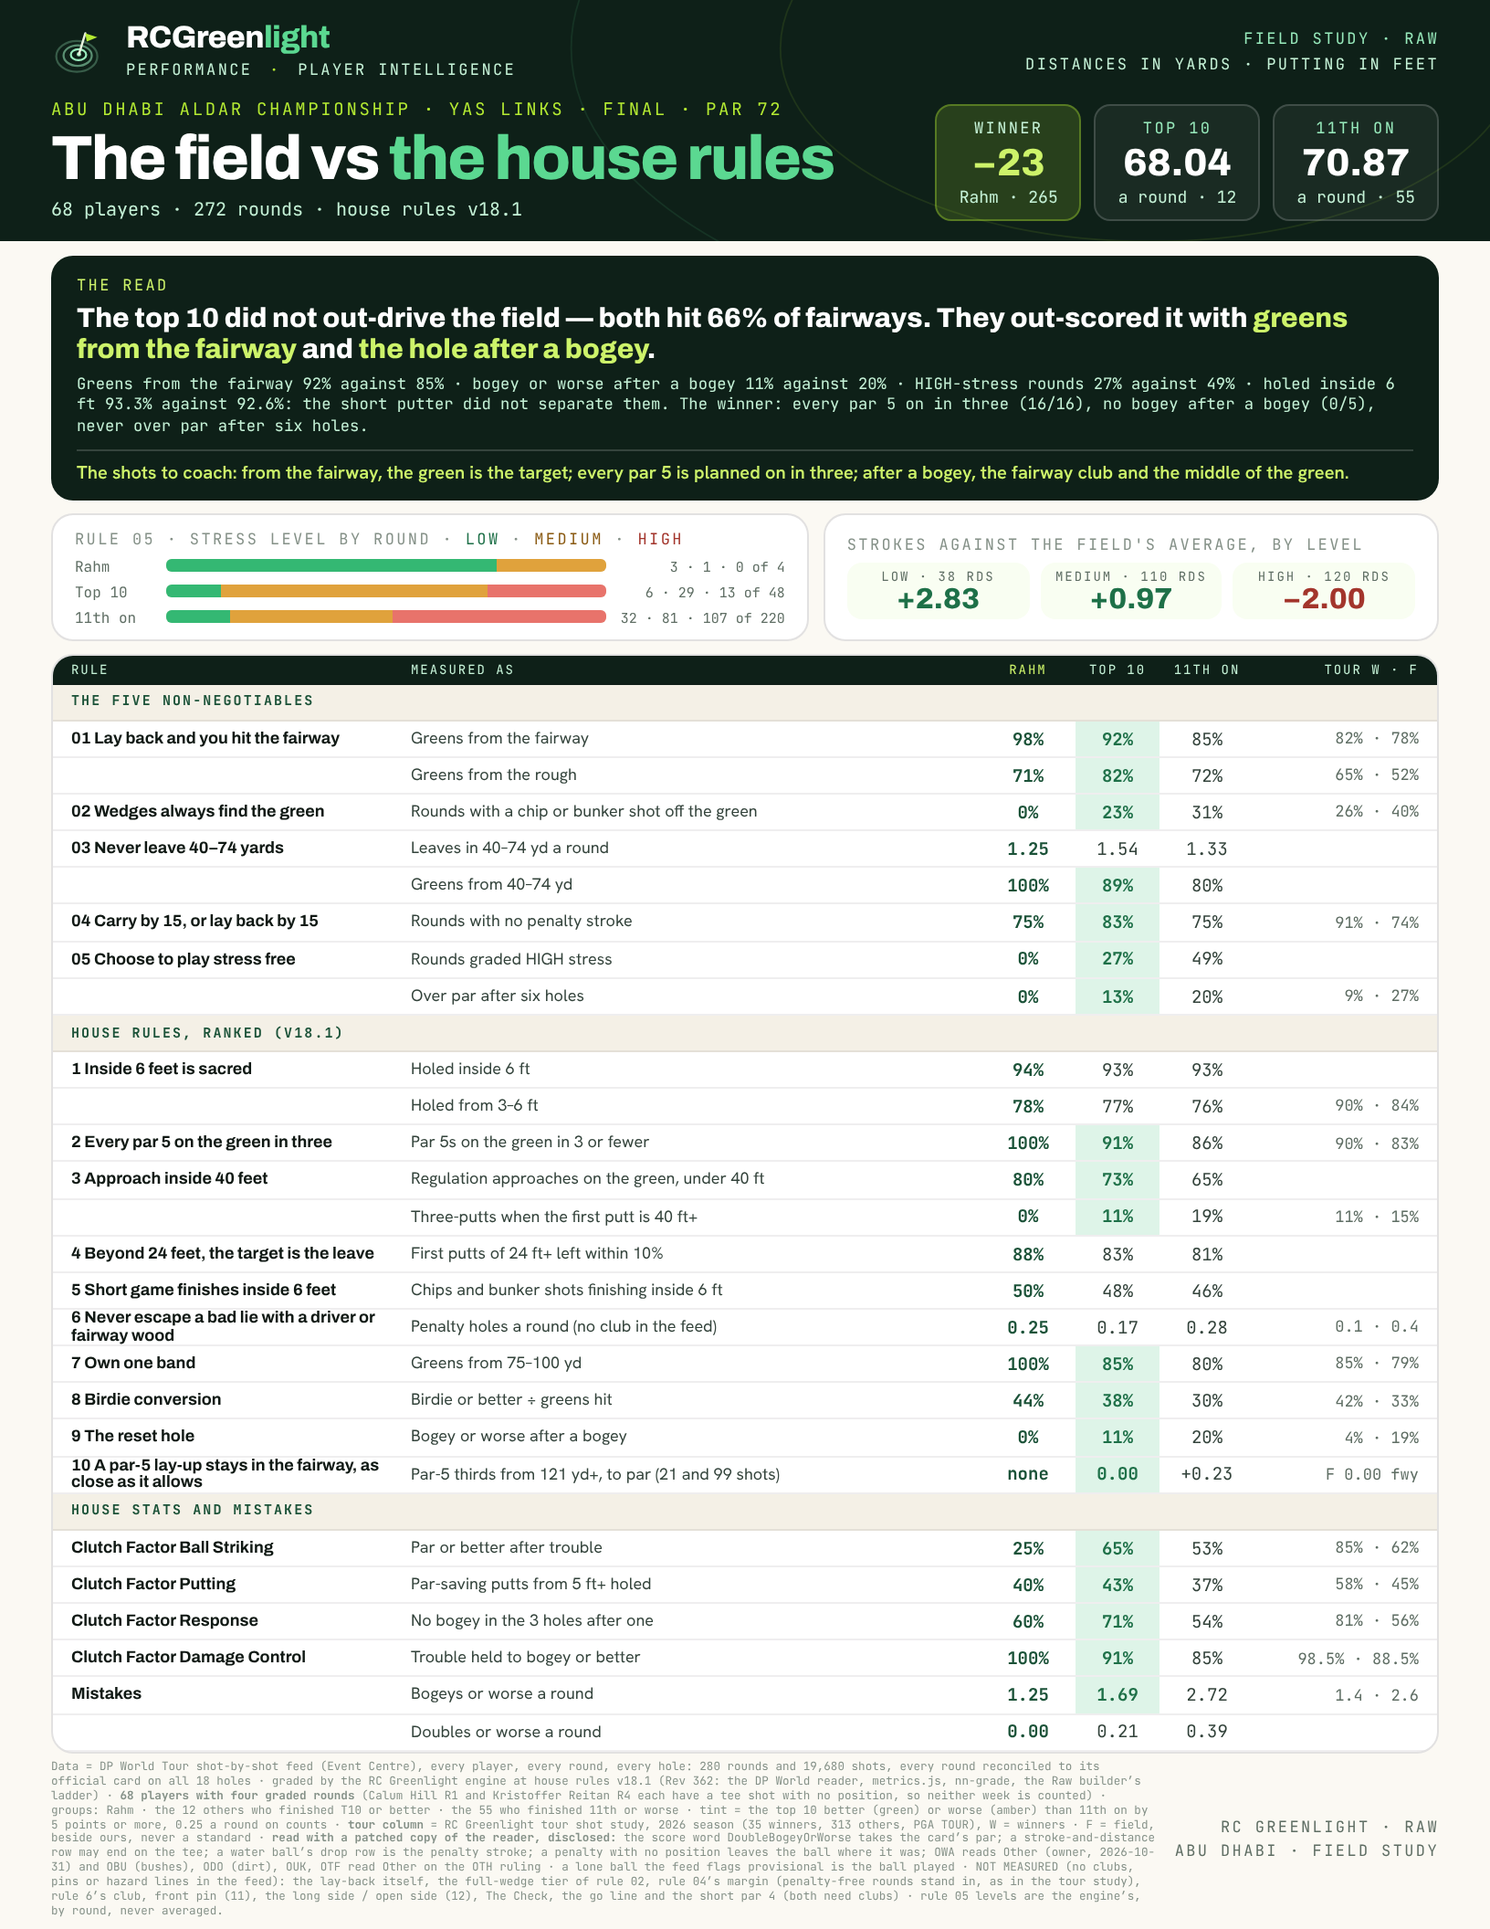
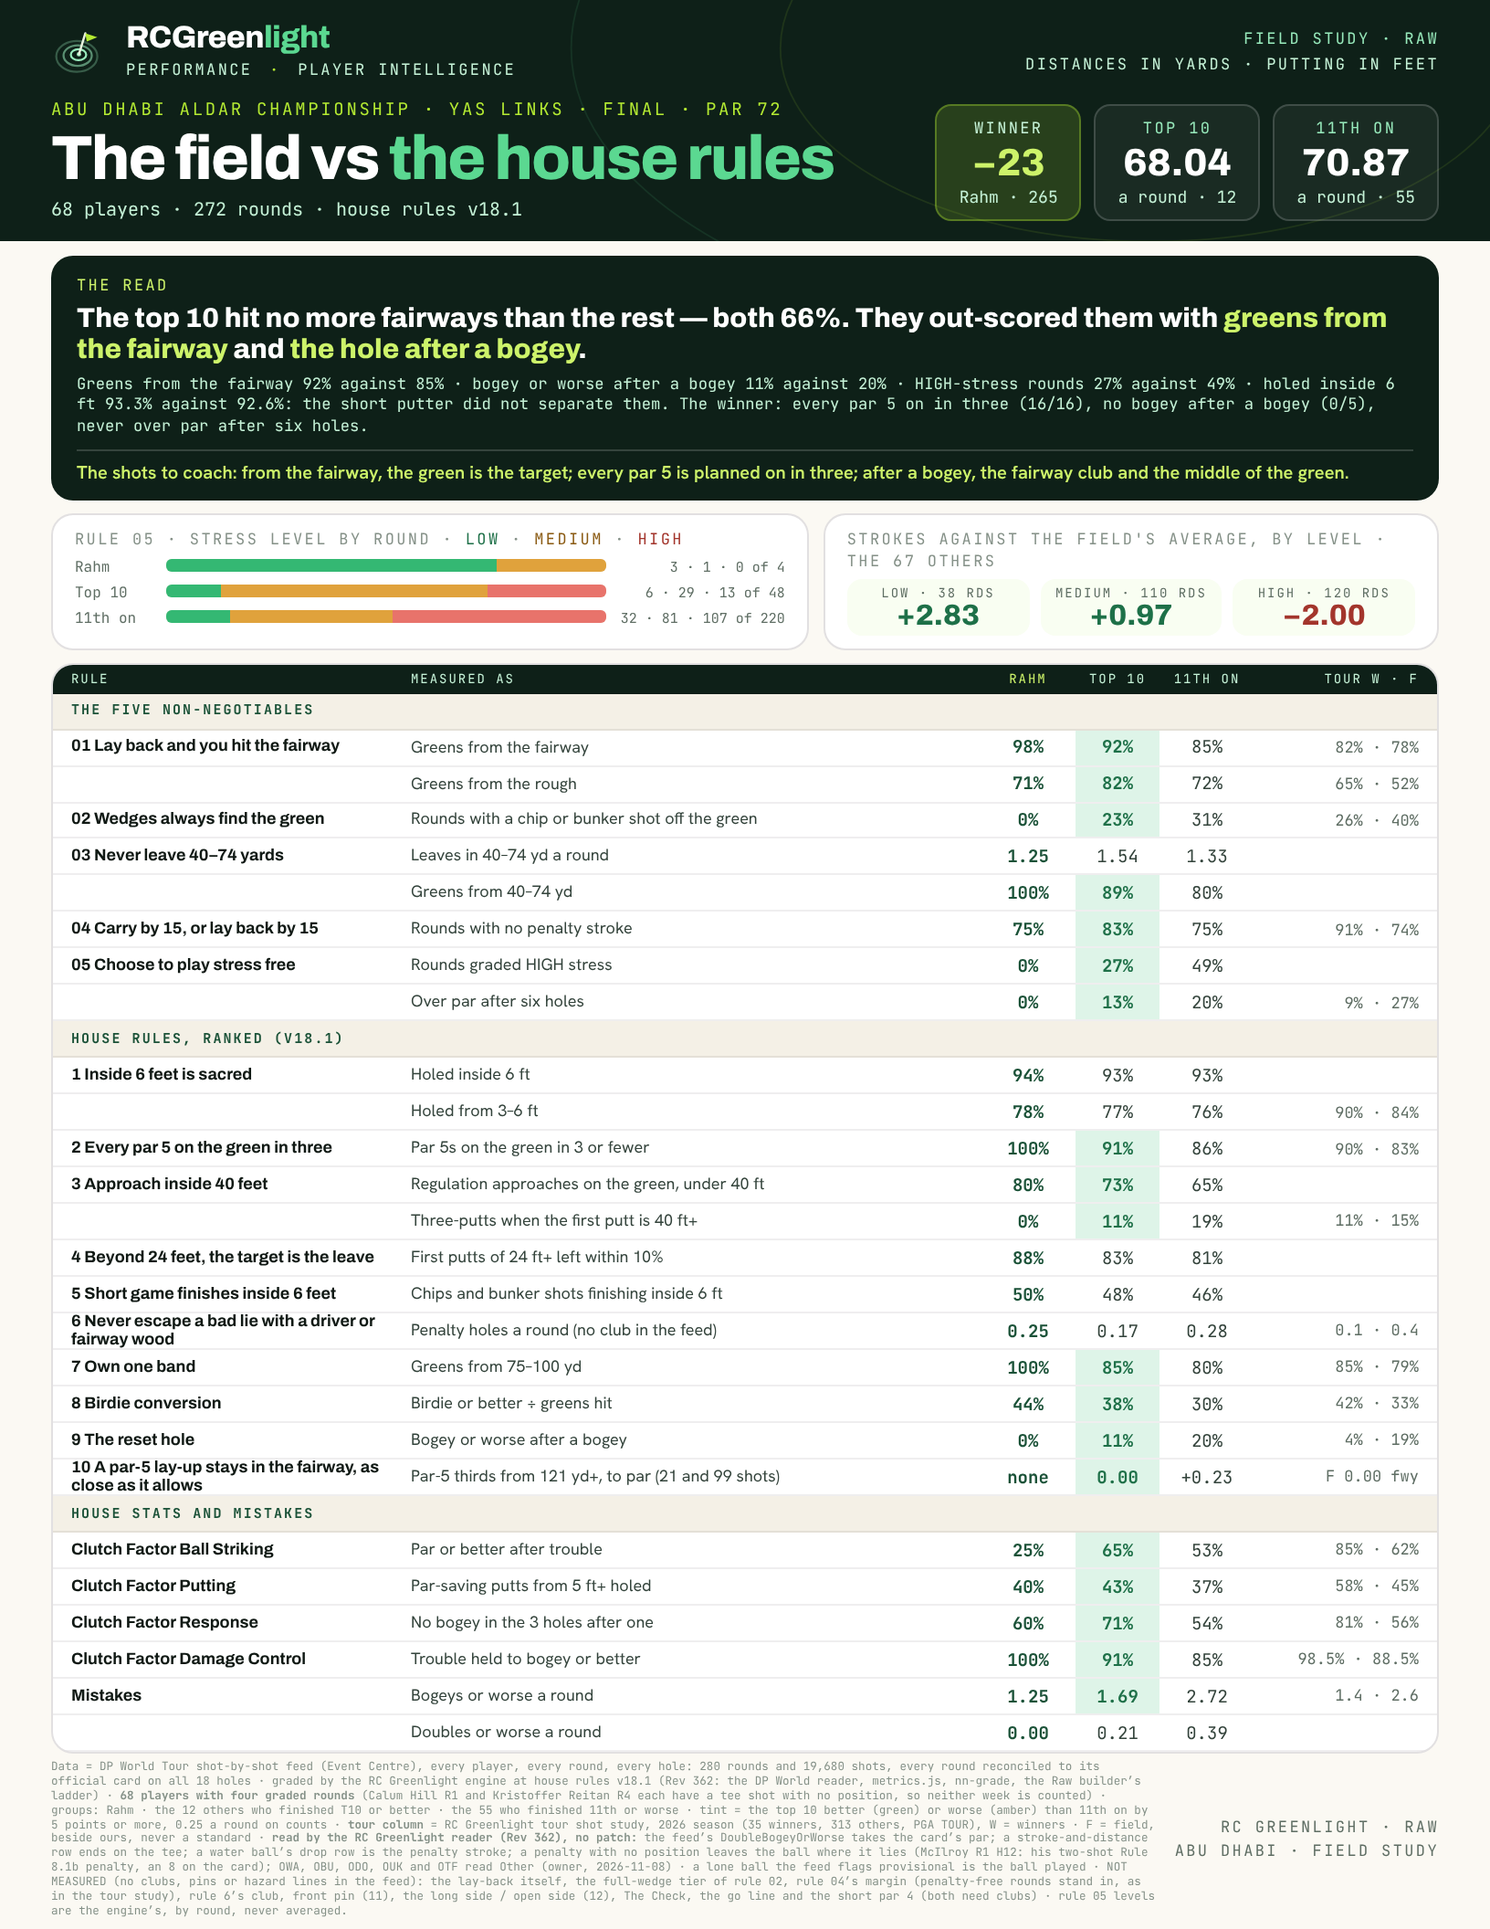
Field study: re-read on the RC Greenlight reader with no patch; two wording fixes
The owner handed the reader to the RC Greenlight session. Every patch is now
in the house reader (Rev 362, commit 672636a); the same 278 of 280 rounds
read and every per-round measure is unchanged. McIlroy R1 H12 is his two-shot
Rule 8.1b penalty. THE READ says fairways, not driving; the strokes-by-level
panel is labelled the 67 others.

Claude-Session: https://claude.ai/code/session_01ECjj2nsVVhvVAjhnW9CnCT

diff --git a/europeantour/reports/Abu Dhabi Aldar Championship - Field vs the House Rules - Raw.html b/europeantour/reports/Abu Dhabi Aldar Championship - Field vs the House Rules - Raw.html
@@ -75,7 +75,7 @@ a{color:var(--g700);}a:hover{color:var(--g500);}
 
   <div style="background:var(--g950);color:#fff;border-radius:12px;padding:10px 14px 9px;flex:0 0 auto;position:relative;overflow:hidden;">
     <div class="kick" style="color:var(--lime4);margin-bottom:4px;">The read</div>
-    <div style="font-family:var(--fd);font-weight:800;font-size:15px;line-height:1.12;">The top 10 did not out-drive the field — both hit 66% of fairways. They out-scored it with
+    <div style="font-family:var(--fd);font-weight:800;font-size:15px;line-height:1.12;">The top 10 hit no more fairways than the rest — both 66%. They out-scored them with
       <span style="color:var(--lime4);">greens from the fairway</span> and <span style="color:var(--lime4);">the hole after a bogey</span>.</div>
     <div class="mono" style="font-size:8.6px;color:var(--g200);margin-top:5px;line-height:1.35;">Greens from the fairway 92% against 85% · bogey or worse after a bogey 11% against 20% ·
       HIGH-stress rounds 27% against 49% · holed inside 6 ft 93.3% against 92.6%: the short putter did not separate them.
@@ -90,7 +90,7 @@ a{color:var(--g700);}a:hover{color:var(--g500);}
       <div style="display:flex;align-items:center;gap:6px;"><span class="mono" style="font-size:8px;color:var(--ink5);width:44px;">Rahm</span><div style="flex:1;height:7px;display:flex;border-radius:3px;overflow:hidden;background:var(--paper2);"><div style="width:75.0%;background:var(--g500);"></div><div style="width:25.0%;background:var(--bog);"></div><div style="width:0.0%;background:var(--red);"></div></div><span class="mono" style="font-size:7.5px;color:var(--ink5);width:92px;text-align:right;">3 · 1 · 0 of 4</span></div><div style="display:flex;align-items:center;gap:6px;"><span class="mono" style="font-size:8px;color:var(--ink5);width:44px;">Top 10</span><div style="flex:1;height:7px;display:flex;border-radius:3px;overflow:hidden;background:var(--paper2);"><div style="width:12.5%;background:var(--g500);"></div><div style="width:60.4%;background:var(--bog);"></div><div style="width:27.1%;background:var(--red);"></div></div><span class="mono" style="font-size:7.5px;color:var(--ink5);width:92px;text-align:right;">6 · 29 · 13 of 48</span></div><div style="display:flex;align-items:center;gap:6px;"><span class="mono" style="font-size:8px;color:var(--ink5);width:44px;">11th on</span><div style="flex:1;height:7px;display:flex;border-radius:3px;overflow:hidden;background:var(--paper2);"><div style="width:14.5%;background:var(--g500);"></div><div style="width:36.8%;background:var(--bog);"></div><div style="width:48.6%;background:var(--red);"></div></div><span class="mono" style="font-size:7.5px;color:var(--ink5);width:92px;text-align:right;">32 · 81 · 107 of 220</span></div>
     </div>
     <div style="flex:1;background:#fff;border:1px solid var(--bs);border-radius:12px;padding:7px 12px;display:flex;flex-direction:column;justify-content:center;gap:4px;">
-      <div class="kick" style="color:var(--ink4);">Strokes against the field's average, by level</div>
+      <div class="kick" style="color:var(--ink4);">Strokes against the field's average, by level · the 67 others</div>
       <div style="display:flex;gap:6px;">
         <div style="flex:1;text-align:center;background:color-mix(in oklch,var(--lime) 8%,#fff);border-radius:8px;padding:3px;"><div class="kick" style="color:var(--ink5);font-size:7px;">Low · 38 rds</div><div style="font-family:var(--fd);font-weight:800;font-size:16px;color:var(--g700);line-height:1;">+2.83</div></div><div style="flex:1;text-align:center;background:color-mix(in oklch,var(--lime) 8%,#fff);border-radius:8px;padding:3px;"><div class="kick" style="color:var(--ink5);font-size:7px;">Medium · 110 rds</div><div style="font-family:var(--fd);font-weight:800;font-size:16px;color:var(--g700);line-height:1;">+0.97</div></div><div style="flex:1;text-align:center;background:color-mix(in oklch,var(--lime) 8%,#fff);border-radius:8px;padding:3px;"><div class="kick" style="color:var(--ink5);font-size:7px;">High · 120 rds</div><div style="font-family:var(--fd);font-weight:800;font-size:16px;color:var(--redT);line-height:1;">−2.00</div></div>
       </div>
@@ -108,7 +108,7 @@ a{color:var(--g700);}a:hover{color:var(--g500);}
   </div>
 
   <div style="display:flex;align-items:center;justify-content:space-between;padding:4px 0 5px;gap:10px;flex:0 0 auto;">
-    <div class="mono" style="font-size:6.3px;color:var(--ink4);line-height:1.26;">Data = DP World Tour shot-by-shot feed (Event Centre), every player, every round, every hole: 280 rounds and 19,680 shots, every round reconciled to its official card on all 18 holes · graded by the RC Greenlight engine at house rules v18.1 (Rev 362: the DP World reader, metrics.js, nn-grade, the Raw builder’s ladder) · <b>68 players with four graded rounds</b> (Calum Hill R1 and Kristoffer Reitan R4 each have a tee shot with no position, so neither week is counted) · groups: Rahm · the 12 others who finished T10 or better · the 55 who finished 11th or worse · tint = the top 10 better (green) or worse (amber) than 11th on by 5 points or more, 0.25 a round on counts · <b>tour column</b> = RC Greenlight tour shot study, 2026 season (35 winners, 313 others, PGA TOUR), W = winners · F = field, beside ours, never a standard · <b>read with a patched copy of the reader, disclosed:</b> the score word DoubleBogeyOrWorse takes the card’s par; a stroke-and-distance row may end on the tee; a water ball’s drop row is the penalty stroke; a penalty with no position leaves the ball where it was; OWA reads Other (owner, 2026-10-31) and OBU (bushes), ODO (dirt), OUK, OTF read Other on the OTH ruling · a lone ball the feed flags provisional is the ball played · NOT MEASURED (no clubs, pins or hazard lines in the feed): the lay-back itself, the full-wedge tier of rule 02, rule 04’s margin (penalty-free rounds stand in, as in the tour study), rule 6’s club, front pin (11), the long side / open side (12), The Check, the go line and the short par 4 (both need clubs) · rule 05 levels are the engine’s, by round, never averaged.</div>
+    <div class="mono" style="font-size:6.3px;color:var(--ink4);line-height:1.26;">Data = DP World Tour shot-by-shot feed (Event Centre), every player, every round, every hole: 280 rounds and 19,680 shots, every round reconciled to its official card on all 18 holes · graded by the RC Greenlight engine at house rules v18.1 (Rev 362: the DP World reader, metrics.js, nn-grade, the Raw builder’s ladder) · <b>68 players with four graded rounds</b> (Calum Hill R1 and Kristoffer Reitan R4 each have a tee shot with no position, so neither week is counted) · groups: Rahm · the 12 others who finished T10 or better · the 55 who finished 11th or worse · tint = the top 10 better (green) or worse (amber) than 11th on by 5 points or more, 0.25 a round on counts · <b>tour column</b> = RC Greenlight tour shot study, 2026 season (35 winners, 313 others, PGA TOUR), W = winners · F = field, beside ours, never a standard · <b>read by the RC Greenlight reader (Rev 362), no patch:</b> the feed’s DoubleBogeyOrWorse takes the card’s par; a stroke-and-distance row ends on the tee; a water ball’s drop row is the penalty stroke; a penalty with no position leaves the ball where it lies (McIlroy R1 H12: his two-shot Rule 8.1b penalty, an 8 on the card); OWA, OBU, ODO, OUK and OTF read Other (owner, 2026-11-08) · a lone ball the feed flags provisional is the ball played · NOT MEASURED (no clubs, pins or hazard lines in the feed): the lay-back itself, the full-wedge tier of rule 02, rule 04’s margin (penalty-free rounds stand in, as in the tour study), rule 6’s club, front pin (11), the long side / open side (12), The Check, the go line and the short par 4 (both need clubs) · rule 05 levels are the engine’s, by round, never averaged.</div>
     <div class="kick" style="color:var(--ink5);text-align:right;line-height:1.6;flex:0 0 auto;white-space:nowrap;">RC Greenlight · Raw<br>Abu Dhabi · Field study</div>
   </div>
 

diff --git a/europeantour/reports/field-abu-dhabi/field_sheet.py b/europeantour/reports/field-abu-dhabi/field_sheet.py
@@ -179,7 +179,7 @@ header = f'''  <div style="background:var(--g950);color:#fff;padding:13px 28px 1
 
 read = f'''  <div style="background:var(--g950);color:#fff;border-radius:12px;padding:10px 14px 9px;flex:0 0 auto;position:relative;overflow:hidden;">
     <div class="kick" style="color:var(--lime4);margin-bottom:4px;">The read</div>
-    <div style="font-family:var(--fd);font-weight:800;font-size:15px;line-height:1.12;">The top 10 did not out-drive the field — both hit 66% of fairways. They out-scored it with
+    <div style="font-family:var(--fd);font-weight:800;font-size:15px;line-height:1.12;">The top 10 hit no more fairways than the rest — both 66%. They out-scored them with
       <span style="color:var(--lime4);">greens from the fairway</span> and <span style="color:var(--lime4);">the hole after a bogey</span>.</div>
     <div class="mono" style="font-size:8.6px;color:var(--g200);margin-top:5px;line-height:1.35;">Greens from the fairway {pct_s(T["gFw"])} against {pct_s(R["gFw"])} · bogey or worse after a bogey {pct_s(T["resetBad"])} against {pct_s(R["resetBad"])} ·
       HIGH-stress rounds {pct_s(share(T, "HIGH STRESS"))} against {pct_s(share(R, "HIGH STRESS"))} · holed inside 6 ft {round(100 * T["in6"][0] / T["in6"][1], 1)}% against {round(100 * R["in6"][0] / R["in6"][1], 1)}%: the short putter did not separate them.
@@ -203,7 +203,7 @@ stress = f'''  <div style="display:flex;gap:8px;margin-top:7px;flex:0 0 auto;">
       {stress_bar("Rahm", W)}{stress_bar("Top 10", T)}{stress_bar("11th on", R)}
     </div>
     <div style="flex:1;background:#fff;border:1px solid var(--bs);border-radius:12px;padding:7px 12px;display:flex;flex-direction:column;justify-content:center;gap:4px;">
-      <div class="kick" style="color:var(--ink4);">Strokes against the field's average, by level</div>
+      <div class="kick" style="color:var(--ink4);">Strokes against the field's average, by level · the 67 others</div>
       <div style="display:flex;gap:6px;">
         {"".join(f'<div style="flex:1;text-align:center;background:color-mix(in oklch,var(--lime) 8%,#fff);border-radius:8px;padding:3px;"><div class="kick" style="color:var(--ink5);font-size:7px;">{k.split()[0].capitalize()} · {by[k][1]} rds</div><div style="font-family:var(--fd);font-weight:800;font-size:16px;color:{"var(--g700)" if by[k][0] > 0 else "var(--redT)"};line-height:1;">{signed(by[k][0])}</div></div>' for k in ("LOW STRESS", "MEDIUM STRESS", "HIGH STRESS"))}
       </div>
@@ -216,10 +216,10 @@ foot = (
     "Raw builder’s ladder) · <b>68 players with four graded rounds</b> (Calum Hill R1 and Kristoffer Reitan R4 each have a tee shot with no position, "
     "so neither week is counted) · groups: Rahm · the 12 others who finished T10 or better · the 55 who finished 11th or worse · tint = the top 10 better "
     "(green) or worse (amber) than 11th on by 5 points or more, 0.25 a round on counts · <b>tour column</b> = RC Greenlight tour shot study, 2026 season "
-    "(35 winners, 313 others, PGA TOUR), W = winners · F = field, beside ours, never a standard · <b>read with a patched copy of the reader, disclosed:</b> the score "
-    "word DoubleBogeyOrWorse takes the card’s par; a stroke-and-distance row may end on the tee; a water ball’s drop row is the penalty stroke; a penalty "
-    "with no position leaves the ball where it was; OWA reads Other (owner, 2026-10-31) and OBU (bushes), ODO (dirt), OUK, OTF read Other on the OTH "
-    "ruling · a lone ball the feed flags provisional is the ball played · NOT MEASURED (no clubs, pins or hazard lines in the feed): the lay-back itself, "
+    "(35 winners, 313 others, PGA TOUR), W = winners · F = field, beside ours, never a standard · <b>read by the RC Greenlight reader (Rev 362), no patch:</b> the "
+    "feed’s DoubleBogeyOrWorse takes the card’s par; a stroke-and-distance row ends on the tee; a water ball’s drop row is the penalty stroke; a penalty "
+    "with no position leaves the ball where it lies (McIlroy R1 H12: his two-shot Rule 8.1b penalty, an 8 on the card); OWA, OBU, ODO, OUK and OTF read Other (owner, "
+    "2026-11-08) · a lone ball the feed flags provisional is the ball played · NOT MEASURED (no clubs, pins or hazard lines in the feed): the lay-back itself, "
     "the full-wedge tier of rule 02, rule 04’s margin (penalty-free rounds stand in, as in the tour study), rule 6’s club, front pin (11), the long side / open side (12), The Check, the go line and the short "
     "par 4 (both need clubs) · rule 05 levels are the engine’s, by round, never averaged."
 )

diff --git a/europeantour/reports/Abu Dhabi Aldar Championship - Field vs the House Rules - derivation.md b/europeantour/reports/Abu Dhabi Aldar Championship - Field vs the House Rules - derivation.md
@@ -25,17 +25,24 @@ card (par, score per hole, hole lengths) → `shot-csv.parse` → `metrics.summa
 no ball position at all; grading them would mean guessing, so they are left out, and so are those two players' weeks
 (the study counts complete weeks): **68 players, 272 rounds** in the table.
 
-**99 rounds read with a patched copy of the reader** (the RC Greenlight repo is untouched; the patches are listed so the
-owner can decide whether the reader should learn them):
-1. The score word `DoubleBogeyOrWorse` takes the card's par (the reader knows `EagleOrBetter` this way; it refused the
-   double-bogey word) — 97 rounds, the main cause.
-2. A stroke-and-distance penalty row may end on the tee (`OTB`) — 6 rounds (Rahm R2 H12 among them).
-3. A water ball's drop row typed `BallDrop` (not `Penalty`), numbered in sequence with no travel and matching the card, is
-   the penalty stroke — 4 rounds.
-4. A penalty stroke the feed counted with no ball position leaves the ball where it was — 1 round.
-5. Lie codes read as **Other**: `OWA` (water; owner ruling 2026-10-31), and on the `OTH` ruling ("Other can be ruled outside
-   of fairway"): `OBU` (the commentary says "bushes" 3 times in 4), `ODO` ("dirt", 4 of 4), `OUK` and `OTF` (no consistent
-   meaning) — 20 strokes in all.
+**Re-read on the RC Greenlight reader, no patch (2026-11-08, after the hand-off).** The owner handed the reader to the RC
+Greenlight session. Every patch the first build used is now in the house reader (`dpworld-adapter.js`, Rev 362 branch
+`claude/exciting-bardeen-faa85u`, commit 672636a), each on the owner's ruling or proved against the card:
+1. `DoubleBogeyOrWorse` (the feed's only word for +2 or worse) takes a known par: the card, else the player's other round.
+2. A stroke-and-distance penalty row ends on the tee (`OTB`); the next stroke is a tee shot (Rahm R2 H12 among them).
+3. A water ball's drop row typed `BallDrop` is the penalty stroke when the hole's par is confirmed (a free drop is no stroke).
+4. A `Penalty` stroke the feed counts with no ball position is a penalty where the ball lies, when the par is confirmed:
+   **Rory McIlroy R1 H12 is his two-shot penalty under Rule 8.1b** (improving his lie, applied by himself after the round;
+   double-bogey 6 became 8, as reported by Sky Sports, Golf Monthly and GOLF.com); also Sterne R3 H12, du Plessis R1 H18.
+5. `OWA`, `OBU`, `ODO`, `OUK`, `OTF` read **Other** (owner, 2026-11-08 form: "Read as Other"). `OWA` is a ball that finished
+   in the water (its drop row follows), not a stroke out of water.
+Result: the same **278 of 280 rounds** read, and on every one each per-round measure the sheet uses equals the first
+build's. The first build's patched-rounds list (`field-abu-dhabi/patched_rounds.md`) is kept as the record of what changed.
+
+**Sheet wording corrected in the same pass:** THE READ said the top 10 "did not out-drive the field"; the figure is fairways
+hit (443/672 vs 2,036/3,080, both 66%), so it now reads "hit no more fairways than the rest — both 66%". The strokes-by-level
+panel counts the 67 players other than the winner (268 rounds) and is now labelled "the 67 others".
+
 Also in our own spreadsheet build: a lone ball the feed flags provisional (and never marks selected) is the ball played —
 the hole still matches the card with it counted (31 rounds were refused before this).
 
